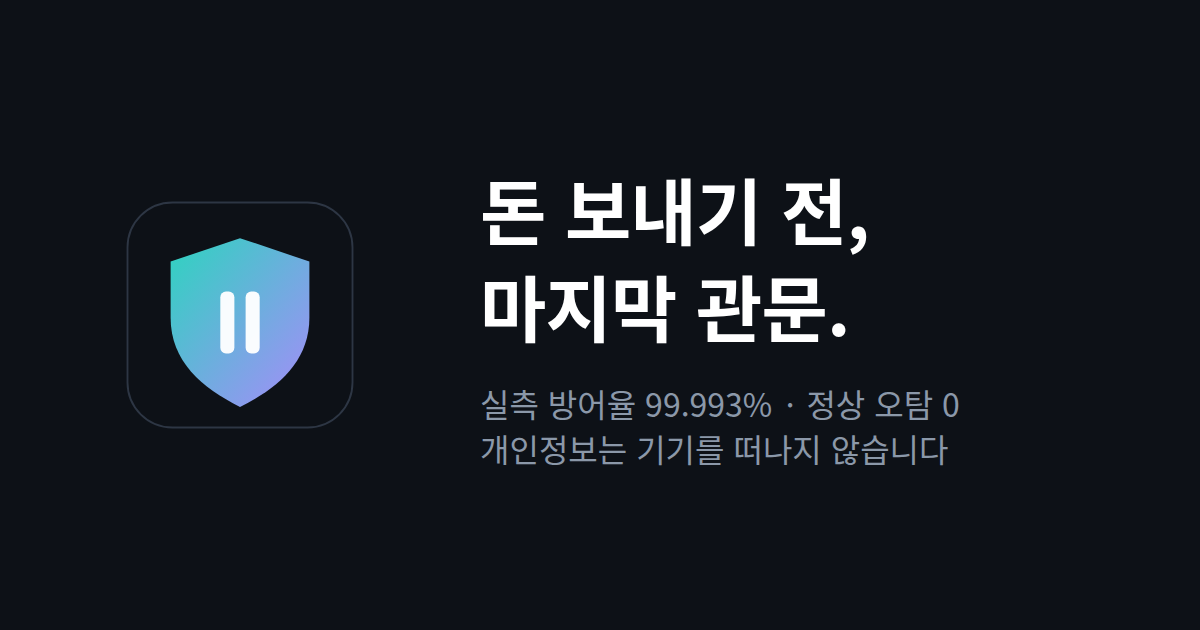
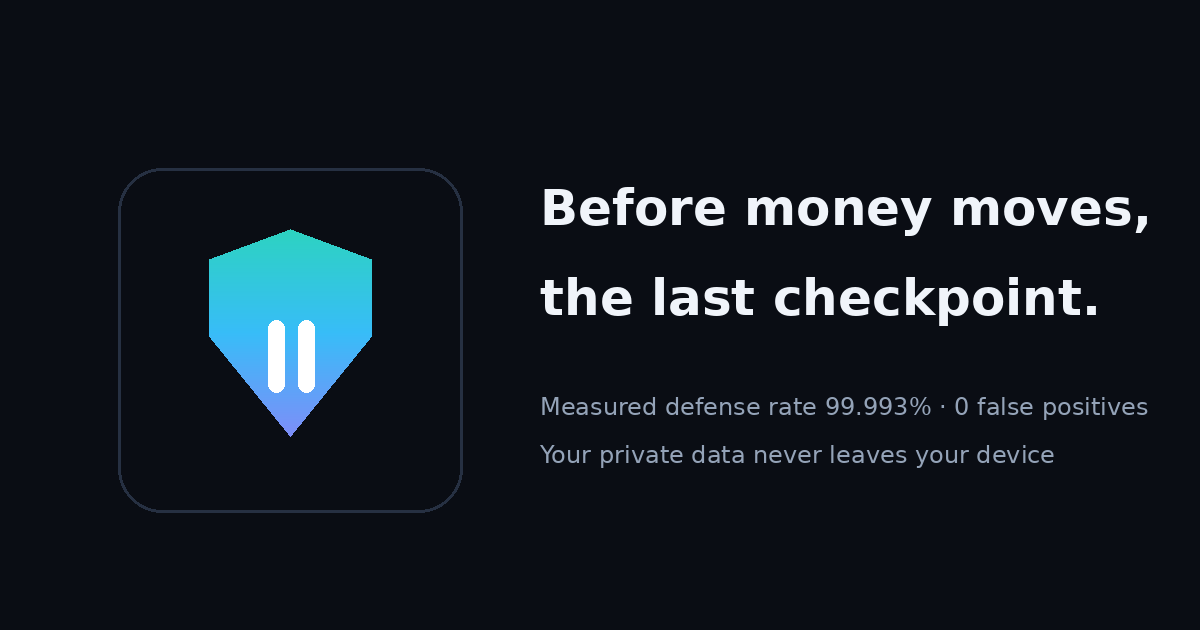
Language pass (Language Dept 2026-11-24): English canonical UI — index.html shell, main.js display strings, manifest, OG image. Engine/detection data untouched (ledger patterns are Korean scam-script data, not UI). Marketplace battery re-run: fraud 10/10, legit false-block 0/4.

diff --git a/public/index.html b/public/index.html
@@ -4,7 +4,7 @@
   <meta charset="utf-8" />
   <meta name="viewport" content="width=device-width, initial-scale=1" />
   <title>Credit &amp; Contract Hybrid Shield — OnDevice First</title>
-  <meta name="description" content="돈 보내기 전, 서명하기 전 마지막 관문. 의심스러운 문자·메일·계약을 기기 안에서 검사합니다. 실측 방어율 99.993% · 정상 오탐 0." />
+  <meta name="description" content="The last checkpoint before you send money or sign. Check suspicious texts, emails and contract clauses on your own device. Measured defense rate 99.993% · 0 false positives on normal texts." />
   <meta name="theme-color" content="#0d1117" />
   <link rel="manifest" href="manifest.webmanifest" />
   <link rel="icon" href="icons/icon.svg" type="image/svg+xml" />
@@ -14,8 +14,8 @@
   <meta name="apple-mobile-web-app-capable" content="yes" />
   <meta name="apple-mobile-web-app-title" content="Hybrid Shield" />
   <meta property="og:type" content="website" />
-  <meta property="og:title" content="Hybrid Shield — 돈 보내기 전, 마지막 관문" />
-  <meta property="og:description" content="의심스러운 문자·메일·계약을 기기 안에서 검사합니다. 개인정보는 기기를 떠나지 않습니다. 실측 방어율 99.993% · 정상 오탐 0." />
+  <meta property="og:title" content="Hybrid Shield — the last checkpoint before money moves" />
+  <meta property="og:description" content="Check suspicious texts, emails and contract clauses on your own device. Your private data never leaves the device. Measured defense rate 99.993% · 0 false positives." />
   <meta property="og:image" content="og/og-1200x630.png" />
   <meta property="og:image:width" content="1200" />
   <meta property="og:image:height" content="630" />
@@ -36,26 +36,27 @@
       </div>
 
       <p class="hook">
-        <span class="hook-line hook-danger">돈 보내기 전, 서명하기 전 — 의심스러운 문자를 먼저 검사하세요.</span>
-        <span class="hook-line">붙여넣고 <strong>검사 한 번</strong>이면, 위험한지·판단할 근거가 부족한지 바로 알려드립니다.</span>
-        <span class="hook-line">개인정보는 이 기기 안에서 가려지고, <strong>밖으로 나가지 않습니다.</strong></span>
+        <span class="hook-line hook-danger">Before you send money, before you sign — check the suspicious text first.</span>
+        <span class="hook-line">Paste it in and tap <strong>Check</strong> once — it tells you right away whether it looks dangerous, or whether there is not enough evidence to judge.</span>
+        <span class="hook-line">Your personal details are masked on this device and <strong>never leave it.</strong></span>
       </p>
 
       <ul class="proof" aria-label="Measured results">
-        <li><span class="proof-num">99.993%</span><span class="proof-cap">사기 문자 방어율 (실측)</span></li>
-        <li><span class="proof-num">0</span><span class="proof-cap">정상 문자 오탐 (실측)</span></li>
-        <li><span class="proof-num">100,000</span><span class="proof-cap">건으로 검증</span></li>
+        <li><span class="proof-num">99.993%</span><span class="proof-cap">scam-text defense rate (measured)</span></li>
+        <li><span class="proof-num">0</span><span class="proof-cap">false positives on normal texts (measured)</span></li>
+        <li><span class="proof-num">100,000</span><span class="proof-cap">cases verified</span></li>
       </ul>
 
-      <p class="honest">이 방패는 사기를 “원천 차단”하지 않습니다. <strong>피해가 확정되기 전 마지막 관문</strong>입니다.</p>
+      <p class="honest">This shield does not “block scams at the source”. It is <strong>the last checkpoint before the damage becomes final</strong>.</p>
 
       <details class="more">
-        <summary>어떻게 동작하나요?</summary>
+        <summary>How does it work?</summary>
         <p class="lede">
-          <strong>기기 안에서 먼저 검사합니다.</strong> 의심스러운 문자, 이메일, 계약 문구를 돈 보내기
-          전·서명하기 전에 붙여넣으세요. 이름·계좌 같은 개인정보는 이 기기 안에서 가려지고 기기를
-          떠나지 않습니다. 더 깊은 분석이 필요할 때만 가려진 뼈대를 클라우드로 보내며, 보낸 내용은
-          결과 화면에서 전부 확인할 수 있습니다.
+          <strong>It checks on your device first.</strong> Paste a suspicious text, email or contract
+          clause before you send money or sign. Personal details such as names and account numbers
+          are masked on this device and never leave it. Only when a deeper analysis is needed is the
+          masked skeleton sent to the cloud — and everything that was sent is shown in full on the
+          result screen.
         </p>
         <ul class="status-strip" aria-label="Engine status">
           <li id="status-ondevice">On-device (Gemini Nano): checking…</li>
@@ -77,55 +78,55 @@
         </form>
 
         <details class="more">
-          <summary>마켓플레이스 메시지·첨부가 있으면 표시하기 (선택)</summary>
-          <p class="hint">Fiverr 같은 마켓플레이스에서 받은 메시지라면 아래를 표시해 주세요. 첨부는 열지 말고, 있다는 것과 형식만 알려 주시면 됩니다. 파일명은 검사·기록 어디에도 남지 않습니다.</p>
+          <summary>Marketplace message or attachment? Mark it here (optional)</summary>
+          <p class="hint">If the message came from a marketplace like Fiverr, mark it below. Do not open the attachment — just tell us that it exists and what format it claims to be. File names are never kept in any check or record.</p>
           <label class="opt-row">
             <input type="checkbox" id="opt-surface-message" />
-            마켓플레이스·채팅에서 받은 메시지입니다
+            This message came from a marketplace or chat
           </label>
-          <label class="opt-row" for="opt-attach-grade">첨부 파일
+          <label class="opt-row" for="opt-attach-grade">Attachment
             <select id="opt-attach-grade">
-              <option value="">첨부 없음</option>
-              <option value="pdf">문서 (PDF·오피스 문서)</option>
-              <option value="html">웹문서 (HTML)</option>
-              <option value="exe">실행 파일</option>
-              <option value="zip">압축 파일</option>
-              <option value="unknown">형식을 모름</option>
+              <option value="">No attachment</option>
+              <option value="pdf">Document (PDF · office)</option>
+              <option value="html">Web page (HTML)</option>
+              <option value="exe">Executable file</option>
+              <option value="zip">Archive (zip)</option>
+              <option value="unknown">I don't know the format</option>
             </select>
           </label>
-          <label class="opt-row" for="opt-attach-name">첨부 파일명 (선택 — 확장자로 형식을 판정합니다)
-            <input type="text" id="opt-attach-name" autocomplete="off" placeholder="예: order-confirmation.html" />
+          <label class="opt-row" for="opt-attach-name">Attachment file name (optional — the format is judged by its extension)
+            <input type="text" id="opt-attach-name" autocomplete="off" placeholder="e.g. order-confirmation.html" />
           </label>
         </details>
 
         <div class="scenario-row" role="group" aria-label="Try an example">
-          <span class="scenario-label">예시로 먼저 해보기:</span>
-          <button type="button" class="chip" data-scenario="A">스미싱 문자</button>
-          <button type="button" class="chip" data-scenario="B">계약서 문구</button>
-          <button type="button" class="chip" data-scenario="C">가짜 청구서</button>
-          <button type="button" class="chip" data-scenario="D">너무 짧은 문자</button>
+          <span class="scenario-label">Try an example first:</span>
+          <button type="button" class="chip" data-scenario="A">Smishing text</button>
+          <button type="button" class="chip" data-scenario="B">Contract clause</button>
+          <button type="button" class="chip" data-scenario="C">Fake invoice</button>
+          <button type="button" class="chip" data-scenario="D">Too-short text</button>
         </div>
 
         <h2>2 · What stays on this device</h2>
         <p class="hint">Masked preview — placeholders replace personal data before anything else happens:</p>
-        <div id="masked-empty" class="empty-inline">검사하면, 개인정보가 어떻게 가려지는지 여기에 표시됩니다.</div>
+        <div id="masked-empty" class="empty-inline">When you run a check, how your personal data gets masked will be shown here.</div>
         <pre id="masked-preview" class="masked">(nothing yet)</pre>
         <div id="token-chips" class="chips" aria-label="Masked item types"></div>
       </section>
 
       <section class="panel dashboard nx-glow-host" aria-label="Hybrid dashboard">
-        <h2>검사 결과</h2>
+        <h2>Result</h2>
 
         <div id="dash-empty" class="empty-state">
-          <p class="empty-title">아직 검사한 내용이 없습니다.</p>
-          <p class="empty-body">왼쪽(모바일에서는 위쪽)에 의심스러운 문자를 붙여넣고
-          <strong>검사 버튼</strong>을 누르면, 결과가 여기에 크게 표시됩니다.</p>
+          <p class="empty-title">Nothing checked yet.</p>
+          <p class="empty-body">Paste a suspicious text on the left (above, on mobile) and press
+          <strong>Check this text</strong> — the result appears here, large.</p>
         </div>
 
         <div id="dash-result" hidden>
           <div class="verdict-head">
-            <span id="dash-verdict-badge" class="badge badge-idle">검사 전</span>
-            <span id="dash-route" class="badge badge-where">아직 실행 안 됨</span>
+            <span id="dash-verdict-badge" class="badge badge-idle">Not checked</span>
+            <span id="dash-route" class="badge badge-where">Not run yet</span>
           </div>
           <p class="route-line">
             <span id="dash-verdict" class="verdict">No analysis yet.</span>
@@ -145,7 +146,7 @@
           <p id="dash-escalation" class="log">No cloud call yet — everything so far ran on this device.</p>
 
           <details class="tech">
-            <summary>기술 세부 정보</summary>
+            <summary>Technical details</summary>
 
             <p id="dash-tech-code" class="log"></p>
             <p id="dash-tech-status" class="log"></p>
@@ -184,8 +185,8 @@
         masked, and can be wiped above.
       </p>
       <p class="proof-note">
-        독립 검증 100,000건 중 사기 변이 83,000건에서 6건을 놓쳤습니다(방어율 99.993%).
-        정상 변이 16,600건에서 오탐은 0건이었습니다. 놓친 6건은 의도적으로 남겨 둔 복합 변형 사례입니다.
+        In an independent 100,000-case run, 6 of 83,000 scam variants were missed (defense rate 99.993%).
+        False positives on 16,600 normal variants: 0. The six misses are compound-corruption cases, left unfixed deliberately this round.
       </p>
     </footer>
   </main>

diff --git a/public/js/main.js b/public/js/main.js
@@ -66,12 +66,12 @@ let scenarios = {};
 function renderStatus(status) {
   const nanoReady = status.onDevice.supported && status.onDevice.status === "ready";
   els.onDevice.textContent = nanoReady
-    ? "검사 준비 완료"
-    : "기기 내 기본 검사 준비 완료 (고급 검사 없음 — 기본 검사만으로 충분한 경우가 대부분입니다)";
+    ? "Check is ready"
+    : "Basic on-device check is ready (no advanced check — the basic check is enough in most cases)";
   els.onDevice.className = nanoReady ? "is-ok" : "is-off";
   els.statusCloud.textContent = status.cloud.configured
-    ? "심층 분석 연결됨 — 꼭 필요할 때만 사용"
-    : "심층 분석 연결 안 됨 — 기본 검사는 정상 동작";
+    ? "Deep analysis connected — used only when truly needed"
+    : "Deep analysis not connected — the basic check works normally";
   els.statusCloud.className = status.cloud.configured ? "is-ok" : "is-off";
   els.appCheck.textContent = `App Check: ${status.appCheck}`;
   if (els.techStatus) {
@@ -80,8 +80,8 @@ function renderStatus(status) {
       `Cloud (Firebase AI Logic): ${status.cloud.configured ? "configured" : "not configured in this build (project values pending) — local tiers fully active"}`;
   }
   els.budget.textContent = status.cloud.configured
-    ? `심층 분석은 꼭 필요할 때만 씁니다 (이번 사용 ${status.cloud.callsUsed}회 · ${status.cloud.callsUsed} / ${status.cloud.budget})`
-    : `심층 분석은 꼭 필요할 때만 씁니다 (이번 사용 ${status.cloud.callsUsed}회 · ${status.cloud.callsUsed} / ${status.cloud.budget}) — 클라우드 미연결로 예산 동결 중`;
+    ? `Deep analysis is used only when truly needed (used ${status.cloud.callsUsed} time(s) this session · ${status.cloud.callsUsed} / ${status.cloud.budget})`
+    : `Deep analysis is used only when truly needed (used ${status.cloud.callsUsed} time(s) this session · ${status.cloud.callsUsed} / ${status.cloud.budget}) — cloud not connected, budget frozen`;
 }
 
 async function refreshStatus() {
@@ -124,17 +124,17 @@ async function nanoConfirmFactory(rawText) {
 }
 
 // --- Rendering ------------------------------------------------------------------
-const WHERE_LABEL = { "on-device": "이 기기에서만 검사함", cloud: "가려진 내용만 클라우드로 보냄", abstained: "이 기기에서 멈춤" };
+const WHERE_LABEL = { "on-device": "Checked on this device only", cloud: "Only the masked skeleton was sent to the cloud", abstained: "Stopped on this device" };
 
 const VERDICT_BADGE = {
-  risk: ["badge badge-risk", "위험"],
-  "no-signals": ["badge badge-clear", "위험 신호 없음"],
-  abstained: ["badge badge-abstain", "판단 보류"],
-  rejected: ["badge badge-abstain", "판단 보류"],
-  "cloud-analysis": ["badge badge-cloud", "심층 분석 완료"],
+  risk: ["badge badge-risk", "RISK"],
+  "no-signals": ["badge badge-clear", "No risk signals"],
+  abstained: ["badge badge-abstain", "Abstained"],
+  rejected: ["badge badge-abstain", "Abstained"],
+  "cloud-analysis": ["badge badge-cloud", "Deep analysis done"],
 };
 
-const VERDICT_KO = { risk: "위험", "no-signals": "위험 신호 없음", abstained: "판단 보류", rejected: "판단 보류", "cloud-analysis": "심층 분석 완료" };
+const VERDICT_LABEL = { risk: "Risk", "no-signals": "No risk signals", abstained: "Abstained", rejected: "Abstained", "cloud-analysis": "Deep analysis done" };
 
 function renderReport(report) {
   els.empty.hidden = true;
@@ -159,10 +159,10 @@ function renderReport(report) {
     report.verdict === VERDICT.RISK ? `Matches known risk patterns (severity: ${report.severity}). Do not pay or sign.`
     : report.verdict === VERDICT.NO_SIGNALS ? "No risk signals found in the local ledger."
     : report.verdict === VERDICT.CLOUD_ANALYSIS ? "Deep analysis completed in the cloud — from the de-identified skeleton only."
-    : report.verdict === VERDICT.ABSTAINED ? "판단할 근거가 부족해 결정을 보류했습니다."
+    : report.verdict === VERDICT.ABSTAINED ? "Not enough evidence to decide — the Shield abstains."
     : "Input rejected.";
   if (els.techCode) {
-    els.techCode.textContent = report.abstainCode ? `기권 코드: ${report.abstainCode}` : "";
+    els.techCode.textContent = report.abstainCode ? `Abstain code: ${report.abstainCode}` : "";
   }
   els.message.textContent = report.message || "";
 
@@ -180,18 +180,18 @@ function renderReport(report) {
       (report.unconfirmedNames ? ` ${report.unconfirmedNames} name candidate(s) unconfirmed — escalation blocked.` : "")
     : "0 items masked.";
 
-  const AXIS_KO = { AUTHORITY: "권위 내세우기", URGENCY: "급하게 몰아붙이기", SECRECY: "비밀 유지 요구", PAYMENT: "송금 유도", LINK: "의심스러운 링크", THREAT: "협박성 문구" };
+  const AXIS_LABEL = { AUTHORITY: "Authority claims", URGENCY: "Pressure and urgency", SECRECY: "Demands for secrecy", PAYMENT: "Payment inducement", LINK: "Suspicious link", THREAT: "Threatening language" };
   els.evidence.innerHTML = "";
   if (report.matched && report.matched.length > 0) {
     for (const m of report.matched) {
       const li = document.createElement("li");
       const axes = [...(m.bones || []), ...(m.clauseRisk || [])];
-      const known = axes.filter((a) => AXIS_KO[a]);
-      const unknown = axes.filter((a) => !AXIS_KO[a]);
-      li.textContent = `${m.label} — 위험 신호: ${known.map((a) => AXIS_KO[a]).join(" · ") || "패턴 일치"}`;
+      const known = axes.filter((a) => AXIS_LABEL[a]);
+      const unknown = axes.filter((a) => !AXIS_LABEL[a]);
+      li.textContent = `${m.label} — risk signals: ${known.map((a) => AXIS_LABEL[a]).join(" · ") || "pattern match"}`;
       const span = document.createElement("span");
       span.className = "evidence-code";
-      span.textContent = `패턴 코드 ${m.id} · 일치 점수 ${m.score}${unknown.length ? ` · ${unknown.join(", ")}` : ""}`;
+      span.textContent = `Pattern ${m.id} · match score ${m.score}${unknown.length ? ` · ${unknown.join(", ")}` : ""}`;
       li.appendChild(span);
       els.evidence.appendChild(li);
     }
@@ -251,14 +251,14 @@ async function renderHistory() {
     const rows = await listAnalyses(10);
     if (rows.length === 0) {
       const li = document.createElement("li");
-      li.textContent = "아직 저장된 검사 기록이 없습니다.";
+      li.textContent = "No check history saved yet.";
       els.history.appendChild(li);
       return;
     }
     for (const row of rows) {
       const li = document.createElement("li");
       const when = new Date(row.ts).toLocaleString();
-      li.textContent = `${when} — ${VERDICT_KO[row.verdict] || row.verdict} · ${WHERE_LABEL[row.route] || row.route} · 개인정보 ${row.isolation.count}건 가림 · ${row.patternIds.length ? `패턴 ${row.patternIds.length}건 일치` : "패턴 일치 없음"}`;
+      li.textContent = `${when} — ${VERDICT_LABEL[row.verdict] || row.verdict} · ${WHERE_LABEL[row.route] || row.route} · ${row.isolation.count} personal item(s) masked · ${row.patternIds.length ? `${row.patternIds.length} pattern(s) matched` : "no pattern matched"}`;
       els.history.appendChild(li);
     }
   } catch {
